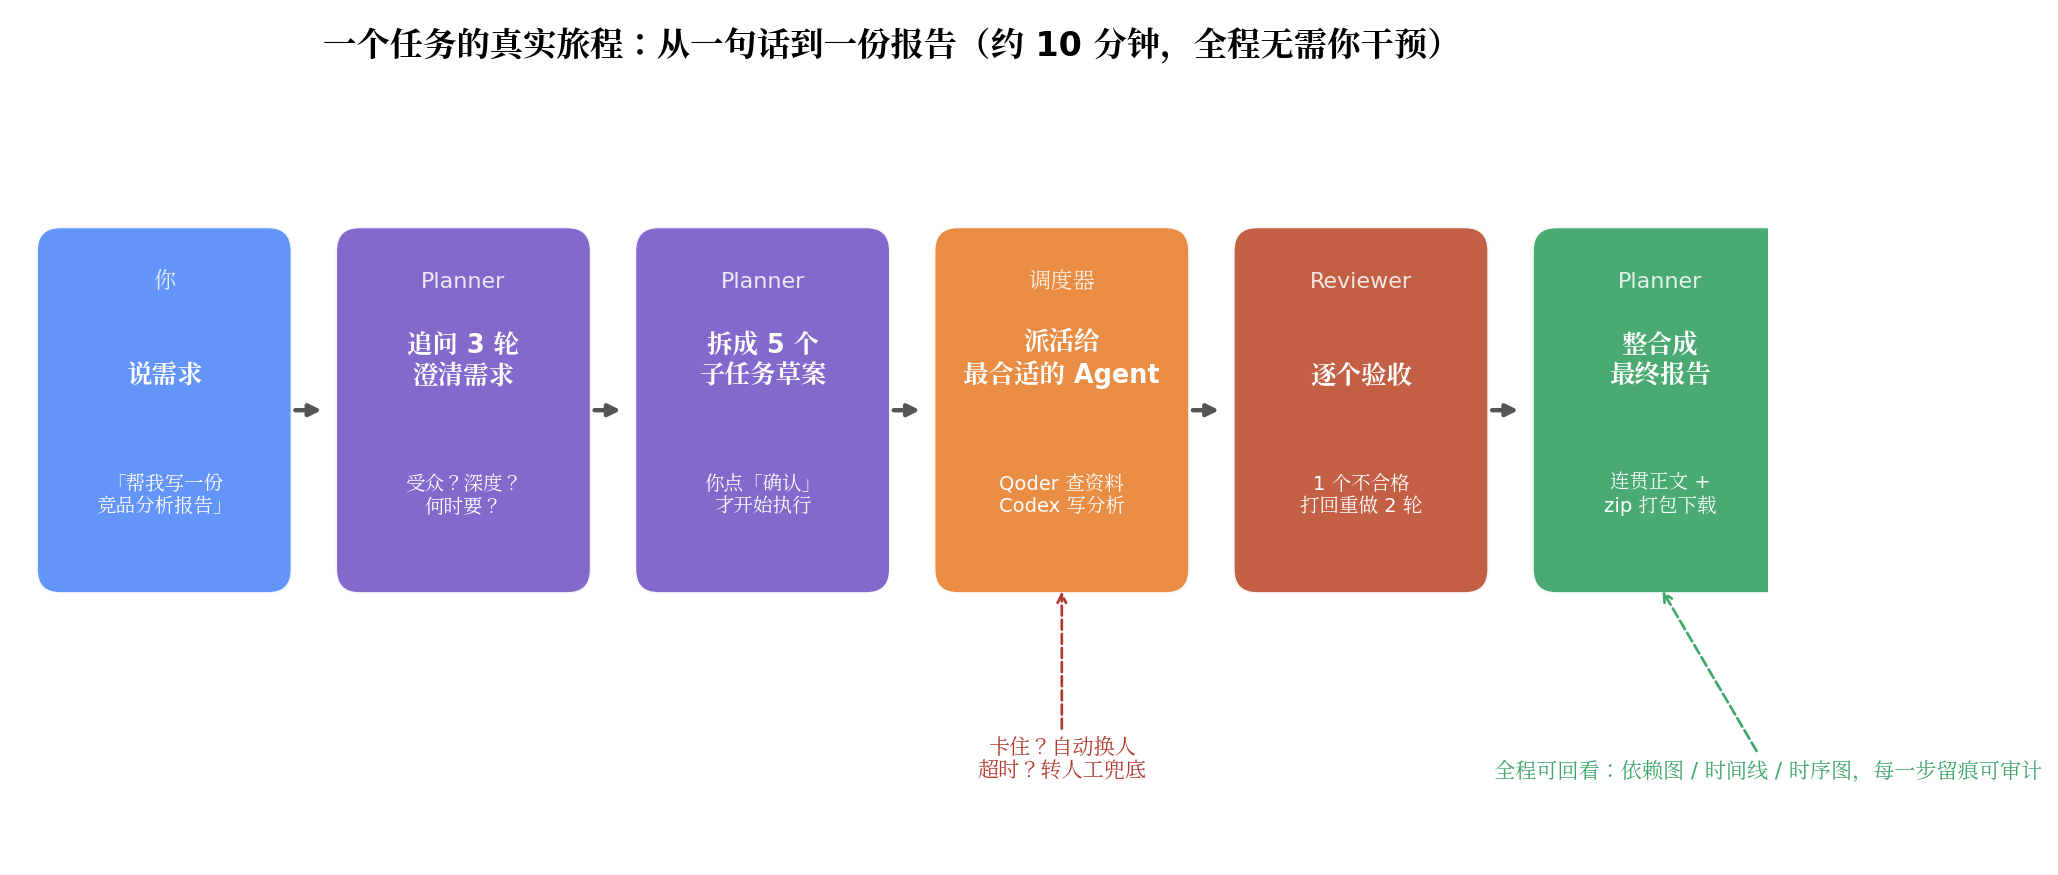
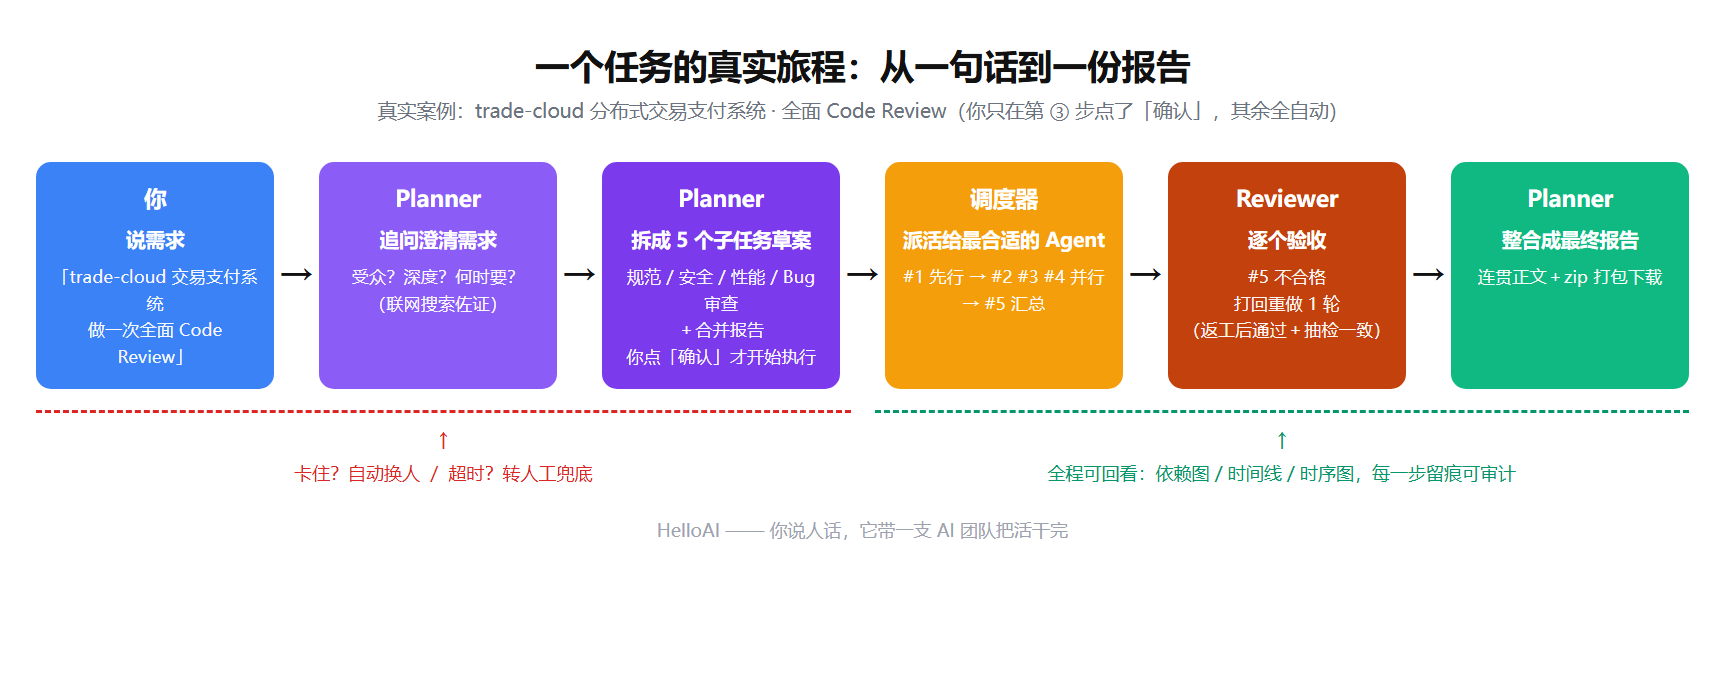
docs: README 撤下在线演示地址（截图替代，演示账号留待只读账号就绪后补充）+ 任务旅程图按真实案例重绘（trade-cloud Code Review：5 子任务/驳回 1 轮）

diff --git a/README.md b/README.md
@@ -1,7 +1,6 @@
 # HelloAI —— 你说人话，它带一支 AI 团队把活干完
 
 <p align="center">
-  <a href="http://39.106.204.43:5173/#/login"><img src="https://img.shields.io/badge/在线体验-Demo-2EA44F" alt="在线体验"></a>
   <a href="doc/README.md"><img src="https://img.shields.io/badge/文档-文档地图-8A2BE2" alt="文档地图"></a>
   <img src="https://img.shields.io/badge/License-MIT-7C3AED" alt="License MIT">
   <img src="https://img.shields.io/badge/Spring%20Boot-3.4.10-6DB33F?logo=springboot&logoColor=white" alt="Spring Boot 3.4.10">
@@ -17,7 +16,7 @@
 ![一句话看懂 HelloAI](doc/images/helloai一句话看懂.png)
 
 <p align="center">
-  <a href="http://39.106.204.43:5173/#/login">🌐 在线体验</a> •
+  <a href="#工作方式">🎬 工作方式</a> •
   <a href="#快速开始">🚀 5 分钟跑起来</a> •
   <a href="doc/README.md">📖 文档地图</a> •
   <a href="#核心功能开发者详解">🔍 开发者详解</a>
@@ -42,7 +41,7 @@
 
 ![任务旅程](doc/images/helloai任务旅程.png)
 
-<!-- 真实案例：trade-cloud 分布式交易支付系统全面 Code Review（5 个子任务，#5 被驳回 1 轮返工后通过 + 抽检一致）；旅程图为示意插画，与真实案例数字已对齐 -->
+<!-- 真实案例：trade-cloud 分布式交易支付系统全面 Code Review（5 个子任务，#5 被驳回 1 轮返工后通过 + 抽检一致）；旅程图按此案例重绘 -->
 
 1. **你说需求**：「帮我写一份竞品分析报告」
 2. **它先问清楚**：报告给谁看？要多详细？什么时候要？（像真人 PM 一样追问，还能联网查资料）
@@ -382,7 +381,8 @@ npm run dev
 
 ## 🖼 功能预览
 
-> 在线演示：http://39.106.204.43:5173/#/login（admin / admin123）
+> 以下截图均采集自真实运行环境。
+<!-- TODO(演示环境)：待只读演示账号就绪后，在此补充在线演示入口与账号（绝不使用 admin 管理账号） -->
 
 | 功能 | 说明 | 截图 |
 |------|------|------|
